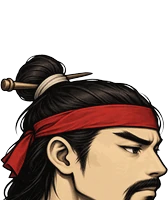
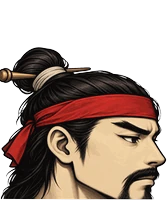
fix(s2): v533 궁사 활 바로 들기 · 머리 그림 턱 잘림
- 머리 그림 7장 다시 그림(턱 · 수염까지) · 맞춤을 얼굴 폭 + 턱 · 코끝으로(wear_fit.py)
- 활: 앞손에 세워 들기(줌통 앞 · 시위 몸 쪽) · 쏠 때도 앞손 · 시위 당김 · 화살촉 앞 · 길이 줄임 · HOLD.bow

Claude-Session: https://claude.ai/code/session_01A3prWCVJXDYfeByQW7RT7U

diff --git a/js/battle.js b/js/battle.js
@@ -5004,7 +5004,7 @@ export function drawFighter(ctx, x, y, look = {}, o = {}) {
   ctx.save();
   const sh0 = artReady() && !jiang ? ART_SHOULDER : { x: 7, y: -70 };
   ctx.translate(sh0.x, sh0.y);
-  if (P) {
+  if (P && weapon !== 'bow') {   // v533 활은 자세(던지기 등)의 손 자리를 따르지 않는다 — 늘 앞손에 세워 들고, 자세 중엔 시위를 당긴다
     // 자세가 손 자리와 칼끝을 따로 정한다. 그림 몸통의 소매는 늘 아래로
     // 처져 있으니, 손이 어깨를 떠나면 팔 하나를 그어 이어 준다.
     const hx = Math.cos(P.hand[0]) * P.hand[1];
@@ -5022,13 +5022,14 @@ export function drawFighter(ctx, x, y, look = {}, o = {}) {
       circle(ctx, hx, hy, 3.8);
     }
     ctx.translate(hx, hy);
-    ctx.rotate(P.blade + Math.PI / 2);
+    const pRot = weapon === 'bow' ? BOW_ROT : P.blade + Math.PI / 2;   // v533 활은 자세와 상관없이 세워 앞으로(오금 앞 · 시위 몸 쪽)
+    ctx.rotate(pRot);
     const wk2 = artReady() && !o.noWeapon ? weaponKey(weapon, look) : null;
     const useArt2 = !!(wk2 && hasArt(wk2));
     // 초식 자세의 칼 키우기(wscale)는 벡터 몫 — 그림 무기는 제 길이가 있다(살짝만)
     if (P.wscale && P.wscale !== 1) { const k = useArt2 ? 1 + (P.wscale - 1) * 0.25 : P.wscale; ctx.scale(k, k); }
     if (!o.noWeapon && !(useArt2 && putWeapon(ctx, wk2))) drawWeapon(ctx, weapon, o, t, 0);
-    if (artLimb && !(useArt2 && weaponBare(wk2))) { ctx.rotate(-(P.blade + Math.PI / 2)); drawHandArt(ctx, 0, 0, 1); }
+    if (artLimb && !(useArt2 && weaponBare(wk2))) { ctx.rotate(-pRot); drawHandArt(ctx, 0, 0, 1); }
     ctx.restore();
     drawOrbit(true);
     ctx.restore();
@@ -5044,7 +5045,7 @@ export function drawFighter(ctx, x, y, look = {}, o = {}) {
   // 키워 몸 밖으로 내민다. 평타가 나가면(lunge) 원래 휘두름으로 섞여 간다.
   if (o.hold && !jiang && (weapon !== 'spear' || artLimb)) {
     const th = ang + Math.PI / 2;
-    const w = Math.min(1, lunge * 2.5);
+    const w = weapon === 'bow' ? 0 : Math.min(1, lunge * 2.5);   // v533 활은 휘두르지 않는다(시위만 당김)
     const H = HOLD[weapon] || HOLD.sword;
     const sway = Math.sin(t * 2.2) * 0.04 + (o.run ? Math.sin(t * 14) * 0.08 : 0);
     const hx = H.hand[0] * (1 - w) + (-Math.sin(th) * 22 + 1) * w;
@@ -5079,6 +5080,23 @@ export function drawFighter(ctx, x, y, look = {}, o = {}) {
       if (artLimb) { ctx.rotate(-blade); drawHandArt(ctx, 0, 0, 1 / sc); }
       else { ctx.fillStyle = skin; circle(ctx, 0, 0, 3.6 / sc); }
     }
+    ctx.restore();
+    drawOrbit(true);
+    ctx.restore();
+    return;
+  }
+  if (weapon === 'bow' && !jiang) {
+    // v533 궁사 — 앞손을 가슴 앞으로 내밀어 활을 세워 든다(전엔 칼 자세 그대로라 활이 허리에 눕고 줌손이 몸 뒤에 있었다)
+    const bl = P ? 0.7 : (lunge || 0), pull = Math.min(1, bl * 1.4);   // 쏘는 자세면 시위를 당긴 채
+    const hx = 16 + pull * 2, hy = 19 + Math.sin(t * 2.2) * 0.6 + (o.run ? Math.sin(t * 14) * 0.8 : 0);
+    if (artLimb) drawForearmArt(ctx, hx, hy, LC, look.cuff || look.band, o.flash, look.s2arm);
+    else { ctx.lineCap = 'round'; ctx.strokeStyle = '#1a1410'; ctx.lineWidth = 9; ctx.beginPath(); ctx.moveTo(0, 0); ctx.lineTo(hx * 0.86, hy * 0.86); ctx.stroke(); ctx.strokeStyle = shade(robeNow, -0.08); ctx.lineWidth = 6.5; ctx.beginPath(); ctx.moveTo(0, 0); ctx.lineTo(hx * 0.86, hy * 0.86); ctx.stroke(); }
+    ctx.translate(hx, hy); ctx.rotate(BOW_ROT);
+    if (o.glow) { ctx.shadowColor = o.glowCol || o.blade || '#fde68a'; ctx.shadowBlur = o.glowCol ? 14 : 10; }
+    if (!o.noWeapon) drawWeapon(ctx, 'bow', o, t, bl);
+    ctx.shadowBlur = 0;
+    ctx.rotate(-BOW_ROT);
+    if (artLimb) drawHandArt(ctx, 0, 0, 1); else { ctx.fillStyle = skin; circle(ctx, 0, 0, 3.6); }
     ctx.restore();
     drawOrbit(true);
     ctx.restore();
@@ -5455,7 +5473,9 @@ function drawHead(ctx, look, t) {
 }
 
 // 들고 선 자세 — 어깨 기준 손 자리, 무기 각(0이면 날이 위, +면 앞으로 눕는다), 크기
+const BOW_ROT = Math.PI / 2 - 0.06;   // v533 활: 손의 '앞'(-y)이 겨누는 쪽(몸 앞) — 활대는 세로, 오금은 앞 · 시위는 몸 쪽
 const HOLD = {
+  bow: { hand: [16, 19], blade: BOW_ROT, scale: 1 },   // v533 궁사: 활을 세워 앞으로
   sword: { hand: [7, 19], blade: 0.95, scale: 1.6 },   // 검사: 칼끝을 앞으로 겨눈다
   fist: { hand: [11, 14], blade: 0.3, scale: 1.5, off: 8, bare: true }, // 권마: 권갑 낀 주먹을 앞에 쥔다(주먹이 손 자리)
   fan: { hand: [9, 14], blade: 0.55, scale: 1.25 },    // 환마: 부채를 펴 든다
@@ -5492,18 +5512,19 @@ function drawWeapon(ctx, weapon, o, t, lunge) {
       // v500 궁사의 활 — 손이 줌통을 쥐고, 위아래 오금이 앞으로 휜 각궁(뿔 · 대나무 · 붉은 끝). 시위는 활 뒤로 곧게
       ctx.save(); ctx.scale(0.72, 0.72);
       // v518 새 시즌 활 그림 — 그림의 양 끝(오금)에 시위를 건다
-      if (o.bowArt) { const im = o.bowArt, w = 72, h = Math.max(14, w * im.height / im.width * 1.6), tipY = 3 - h * 0.85; ctx.drawImage(im, -w / 2, 3 - h, w, h); const pull = Math.min(1, (lunge || 0) * 1.4); ctx.strokeStyle = 'rgba(245,240,225,0.55)'; ctx.lineWidth = 0.8; ctx.beginPath(); ctx.moveTo(-w * 0.47, tipY); ctx.lineTo(0, 7 + pull * 12); ctx.lineTo(w * 0.47, tipY); ctx.stroke(); if (pull > 0.2) { ctx.strokeStyle = '#e7d3a8'; ctx.lineWidth = 1.4; ctx.beginPath(); ctx.moveTo(0, 7 + pull * 12); ctx.lineTo(0, -30); ctx.stroke(); } ctx.restore(); break; }
+      // v533 활 그림은 「U」(가운데 줌통이 아래 · 양 끝이 위) — 위아래를 뒤집어 줌통이 앞(-y)으로 볼록, 양 끝(고자)과 시위는 몸 쪽(+y). 시위는 고자를 곧게 잇고, 쏠 때 몸 쪽으로 당겨진다 · 화살은 앞으로
+      if (o.bowArt) { const im = o.bowArt, w = 60, h = Math.max(12, w * im.height / im.width), tipY = h * 0.85 - 2; ctx.save(); ctx.scale(1, -1); ctx.drawImage(im, -w / 2, 2 - h, w, h); ctx.restore(); const pull = Math.min(1, (lunge || 0) * 1.4), ny = tipY + pull * 14; ctx.strokeStyle = 'rgba(245,240,225,0.7)'; ctx.lineWidth = 0.9; ctx.beginPath(); ctx.moveTo(-w * 0.47, tipY); ctx.lineTo(0, ny); ctx.lineTo(w * 0.47, tipY); ctx.stroke(); if (pull > 0.2) { ctx.strokeStyle = '#e7d3a8'; ctx.lineWidth = 1.4; ctx.beginPath(); ctx.moveTo(0, ny); ctx.lineTo(0, -16); ctx.stroke(); ctx.fillStyle = '#cbd5e1'; ctx.beginPath(); ctx.moveTo(-2.2, -14); ctx.lineTo(0, -19); ctx.lineTo(2.2, -14); ctx.fill(); } ctx.restore(); break; }
       // 손의 '앞'(-y)이 겨누는 쪽 — 활대는 그와 직각(x축)으로 서고 오금은 앞으로, 시위는 몸 쪽(+y)
-      const lim = (dir) => { ctx.beginPath(); ctx.moveTo(0, 0); ctx.bezierCurveTo(dir * 10, -9, dir * 22, -10, dir * 32, -3); ctx.stroke(); };
+      const lim = (dir) => { ctx.beginPath(); ctx.moveTo(0, 0); ctx.bezierCurveTo(dir * 10, -5, dir * 24, -3, dir * 32, 8); ctx.stroke(); };   // v533 줌통이 앞(-y)으로 볼록 · 고자는 몸 쪽
       ctx.lineCap = 'round';
       ctx.strokeStyle = '#2a1a0e'; ctx.lineWidth = 5.2; lim(-1); lim(1);
       ctx.strokeStyle = '#8b5a2b'; ctx.lineWidth = 3.4; lim(-1); lim(1);
       ctx.strokeStyle = '#d6a45a'; ctx.lineWidth = 1.2; lim(-1); lim(1);
-      ctx.fillStyle = '#b91c1c'; circle(ctx, -32, -3, 2.2); circle(ctx, 32, -3, 2.2);   // 고자(끝)
+      ctx.fillStyle = '#b91c1c'; circle(ctx, -32, 8, 2.2); circle(ctx, 32, 8, 2.2);   // 고자(끝)
       const pull = Math.min(1, (lunge || 0) * 1.4);
       ctx.strokeStyle = 'rgba(245,240,225,0.9)'; ctx.lineWidth = 1;
-      ctx.beginPath(); ctx.moveTo(-32, -3); ctx.lineTo(0, 7 + pull * 12); ctx.lineTo(32, -3); ctx.stroke();   // 시위(쏠 때 당겨짐)
-      if (pull > 0.2) { ctx.strokeStyle = '#e7d3a8'; ctx.lineWidth = 1.4; ctx.beginPath(); ctx.moveTo(0, 7 + pull * 12); ctx.lineTo(0, -30); ctx.stroke(); }   // 메긴 화살
+      ctx.beginPath(); ctx.moveTo(-32, 8); ctx.lineTo(0, 8 + pull * 14); ctx.lineTo(32, 8); ctx.stroke();   // 시위 — 고자를 곧게 잇고 쏠 때 몸 쪽으로 당겨짐
+      if (pull > 0.2) { ctx.strokeStyle = '#e7d3a8'; ctx.lineWidth = 1.4; ctx.beginPath(); ctx.moveTo(0, 8 + pull * 14); ctx.lineTo(0, -16); ctx.stroke(); }   // 메긴 화살 — 촉은 앞으로
       ctx.fillStyle = '#3b2a1a'; roundRect(ctx, -5, -2.5, 10, 5, 2); ctx.fill();   // 줌통
       ctx.restore();
       break;

diff --git a/sw.js b/sw.js
@@ -1,5 +1,5 @@
 // 앱 껍데기를 캐시해 오프라인에서도 열리게 한다. 온라인이면 항상 새 파일을 먼저 받는다.
-const CACHE = 'ifu-v532';
+const CACHE = 'ifu-v533';
 const SHELL = [
   './', 'index.html', 'classic.html', 's2.html', 'install.html', 'icons/qr-install.png', 'css/style.css', 'manifest.webmanifest',
   'js/clock.js', 'js/big.js', 'js/data.js', 'js/battle.js', 'js/net.js', 'js/savecode.js', 'js/art2.js', 'js/headanchor.js', 'js/chars.js', 'js/vault.js', 'js/femhead.js', 'js/fmt.js', 'js/firebase-config.js',

diff --git a/js/data.js b/js/data.js
@@ -51,7 +51,7 @@ export const critExpect = (C, D) => {
 // NaN이 된다 — 재 보니 적 체력이 관문 8467에서 그 선을 넘었다.
 // 반대로 상한이 있는 값(경지 배수·초월 단계처럼)은 보통 숫자 그대로 둔다.
 
-export const BUILD = 'ifu-v532';
+export const BUILD = 'ifu-v533';
 
 export const SAVE_VERSION = 4;
 export const OFFLINE_CAP_SEC = 12 * 3600;

diff --git a/tools/s2art/wear_fit.py b/tools/s2art/wear_fit.py
@@ -39,17 +39,31 @@ for f in sorted(glob.glob(f'{SRC}/body-*.png')):
     cv = Image.new('RGBA', (CW, CH), (0, 0, 0, 0)); cv.paste(im, (ox, 0), im)
     save(cv, os.path.basename(f)[:-4])
 
-# 머리
+# 머리 — v533: 얼굴 폭(살빛 가로)으로 크기를, 턱(그림 아래 끝)과 코끝(오른쪽 끝)으로 자리를 상투 머리에 맞춘다.
+#   전엔 살빛 상자의 아래 끝을 턱으로 잡았는데, 수염이 있으면 살빛이 콧수염에서 끊겨 턱 · 입이 잘려 나갔다.
+def band_y(im):
+    # 머리 높이의 가운데 35~75%에서만(붉은 관 · 깃털이 위에 있어도) · 가장 붉은 줄들의 가운데
+    px = im.load(); w, h = im.size; bb = im.getchannel('A').point(lambda v: 255 if v > 40 else 0).getbbox()
+    rows = []
+    for y in range(bb[1] + int((bb[3] - bb[1]) * 0.35), bb[1] + int((bb[3] - bb[1]) * 0.75), 1):
+        n = sum(1 for x in range(0, w, 2) if px[x, y][3] > 200 and px[x, y][0] > 110 and px[x, y][0] > 2 * px[x, y][1] and px[x, y][0] > 2 * px[x, y][2])
+        rows.append((n, y))
+    m = max(n for n, _ in rows); ys = [y for n, y in rows if n >= m * 0.6]
+    return sum(ys) / len(ys)
+def nose_x(im, y0, y1):
+    px = im.load(); w = im.size[0]
+    return max(x for y in range(int(y0), int(y1), 2) for x in range(w) if px[x, y][3] > 200)
 ref = Image.open(f'{HERO}/head-topknot.png').convert('RGBA'); RW, RH = ref.size
-rb = skin_box(ref)
+CHIN = round(RH * 0.93)                     # 게임이 상투 머리 아래 7%를 잘라 낸 자리 = 턱
+rB = band_y(ref); rN = nose_x(ref, rB, CHIN); rb = skin_box(ref)
 for f in sorted(glob.glob(f'{SRC}/head-*.png')):
-    im = Image.open(f).convert('RGBA'); gb = skin_box(im)
-    k = ((rb[2] - rb[0]) / (gb[2] - gb[0]) + (rb[3] - rb[1]) / (gb[3] - gb[1])) / 2
+    im = Image.open(f).convert('RGBA')
+    bb = im.getchannel('A').point(lambda v: 255 if v > 40 else 0).getbbox()
+    gC = bb[3]; gb = skin_box(im); gN = nose_x(im, bb[1] + (gC - bb[1]) * 0.4, gC)
+    k = (rb[2] - rb[0]) / (gb[2] - gb[0])   # 얼굴 폭(귀 ~ 코끝 살빛) — 쓰개 · 수염과 상관없다
     im = im.resize((round(im.width * k), round(im.height * k)), Image.LANCZOS)
-    gx, gy = gb[2] * k, gb[3] * k   # 코끝(오른쪽) · 턱(아래)을 맞춘다
-    cv = Image.new('RGBA', (RW, RH + PAD), (0, 0, 0, 0))
-    cv.paste(im, (round(rb[2] - gx), round(rb[3] - gy) + PAD), im)
-    cv = cv.crop((0, 0, RW, PAD + round(RH * 0.93)))
+    cv = Image.new('RGBA', (RW, PAD + CHIN), (0, 0, 0, 0))
+    cv.paste(im, (round(rN - gN * k), round(PAD + CHIN - gC * k)), im)
     save(cv, os.path.basename(f)[:-4])
 
 # 무기

diff --git a/docs/바람식_개편.md b/docs/바람식_개편.md
@@ -4143,3 +4143,11 @@ v517(도포 · 쓰개 · 무기)에 이어 남은 부위를 모두 등급마다 
 - **보상**: 첫 처치 — 그 장 확정 장비(1~3장 정품 · 4~6 진품 · 7~9 보품 · 10~15 신품) + 칭호 「○○ 격파」. 다시 깨면 강화석 60 · 뽑기권 5(장마다 하루 한 번 — 물러나기로 같은 두목을 거듭 잡아 쌓이던 것).
 - 봇(접속 20시간) 15일: 장 두목 대부분 첫 판 · 둘째 판에 이김(이긴 판 54~104초) · 칸 진행은 전과 같음.
 - 시험: 장 두목 15 · 그림 · 10칸 판정 · 국면 · 필살 · 첫 처치 보상 · 하루 한 번 · 무력화 · 기절 피해 ×2 · 자동 피하기, 화면(등장 컷 · 막대 세 줄 · 게이지).
+
+## v533 궁사 활 · 얼굴 잘림 고침
+
+- **얼굴(턱 · 입)이 잘려 보이던 것**: 새 시즌 머리 그림(모자 등급 0~6)이 콧수염 아래에서 잘려 있었다 — 맞춤 도구가 살빛 아래 끝을 턱으로 잡았는데 수염에서 살빛이 끊겨 거기서 잘랐다. 머리 그림 일곱을 sunburst로 다시 그리고(턱 · 수염까지), 맞춤을 **얼굴 폭(귀~코끝 살빛)으로 크기 · 그림 아래 끝(턱)과 코끝으로 자리**로 바꿨다(`tools/s2art/wear_fit.py`).
+- **활을 반대로 들던 것**: 궁사가 칼 자세를 그대로 써서 활이 허리에 눕고 줌손이 몸 뒤에 있었고, 활 그림(「U」)이 오금이 앞을 보게 그려져 반대 모양이었다.
+  - 서 있기 · 달리기: 앞손을 내밀어 **활을 세워** 든다 — 줌통이 앞으로 볼록, 고자 · 시위는 몸 쪽, 시위는 고자를 곧게 잇는다.
+  - 쏠 때: 던지기 자세의 손 자리를 따르지 않고 늘 앞손에 — 시위를 몸 쪽으로 당기고 화살촉은 앞으로.
+  - 활 길이를 줄여 위 고자 · 시위가 얼굴에 닿지 않게. 옛 게임(들고 선 자세)도 같은 활 자세(`HOLD.bow`).
